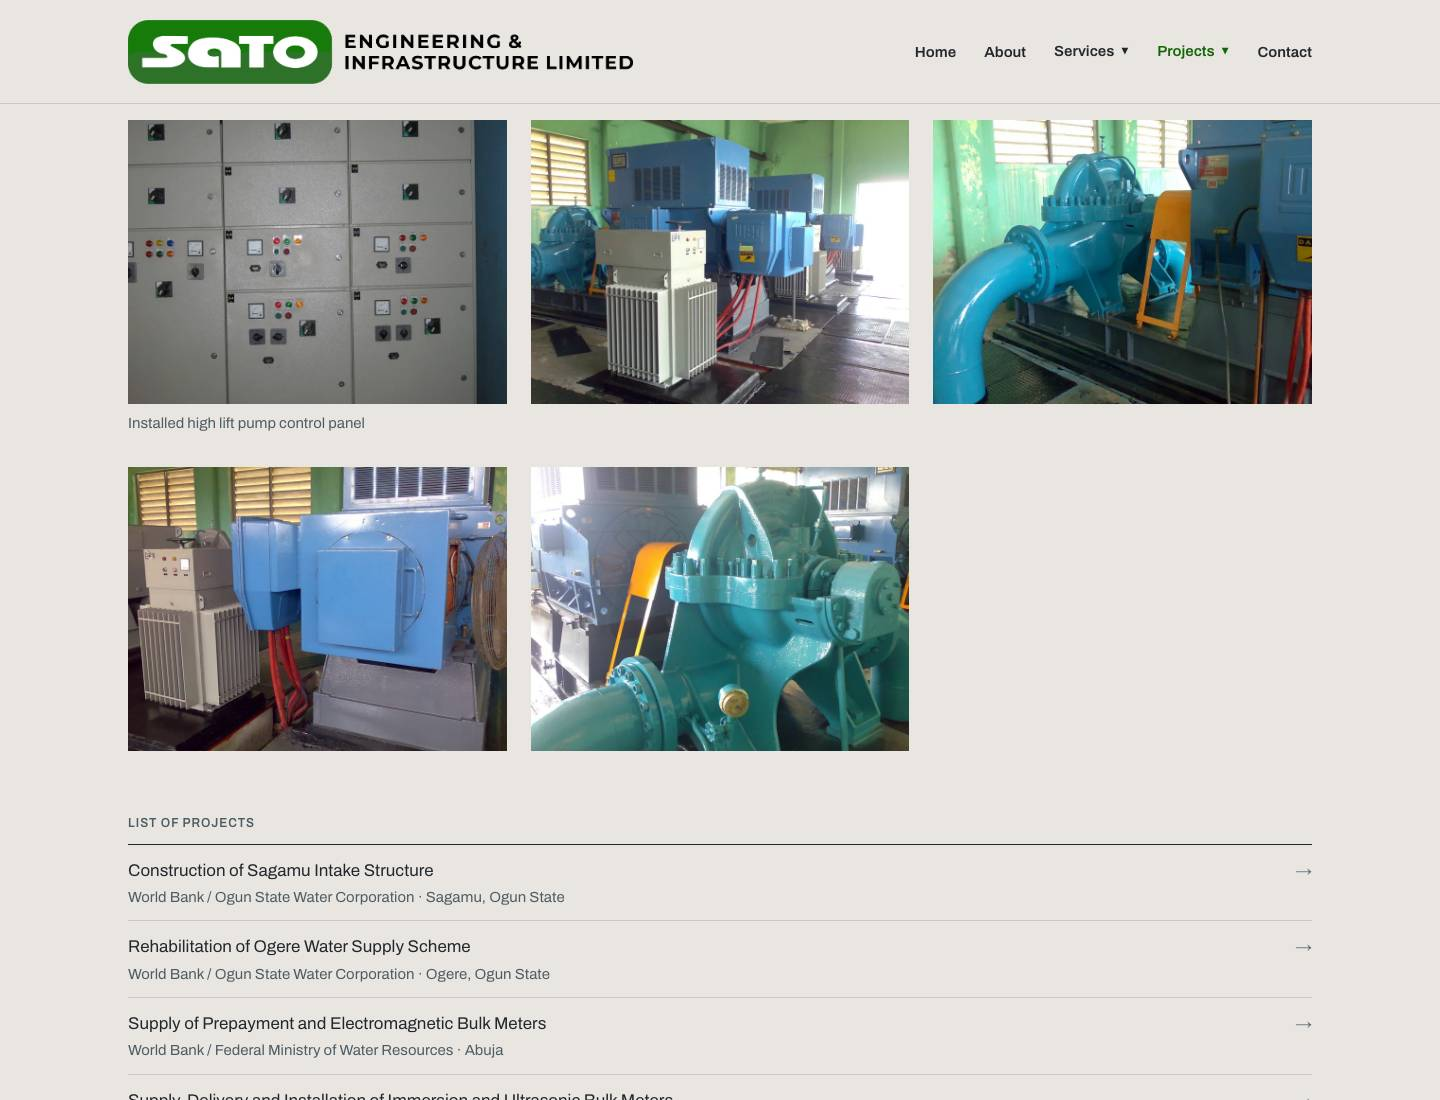
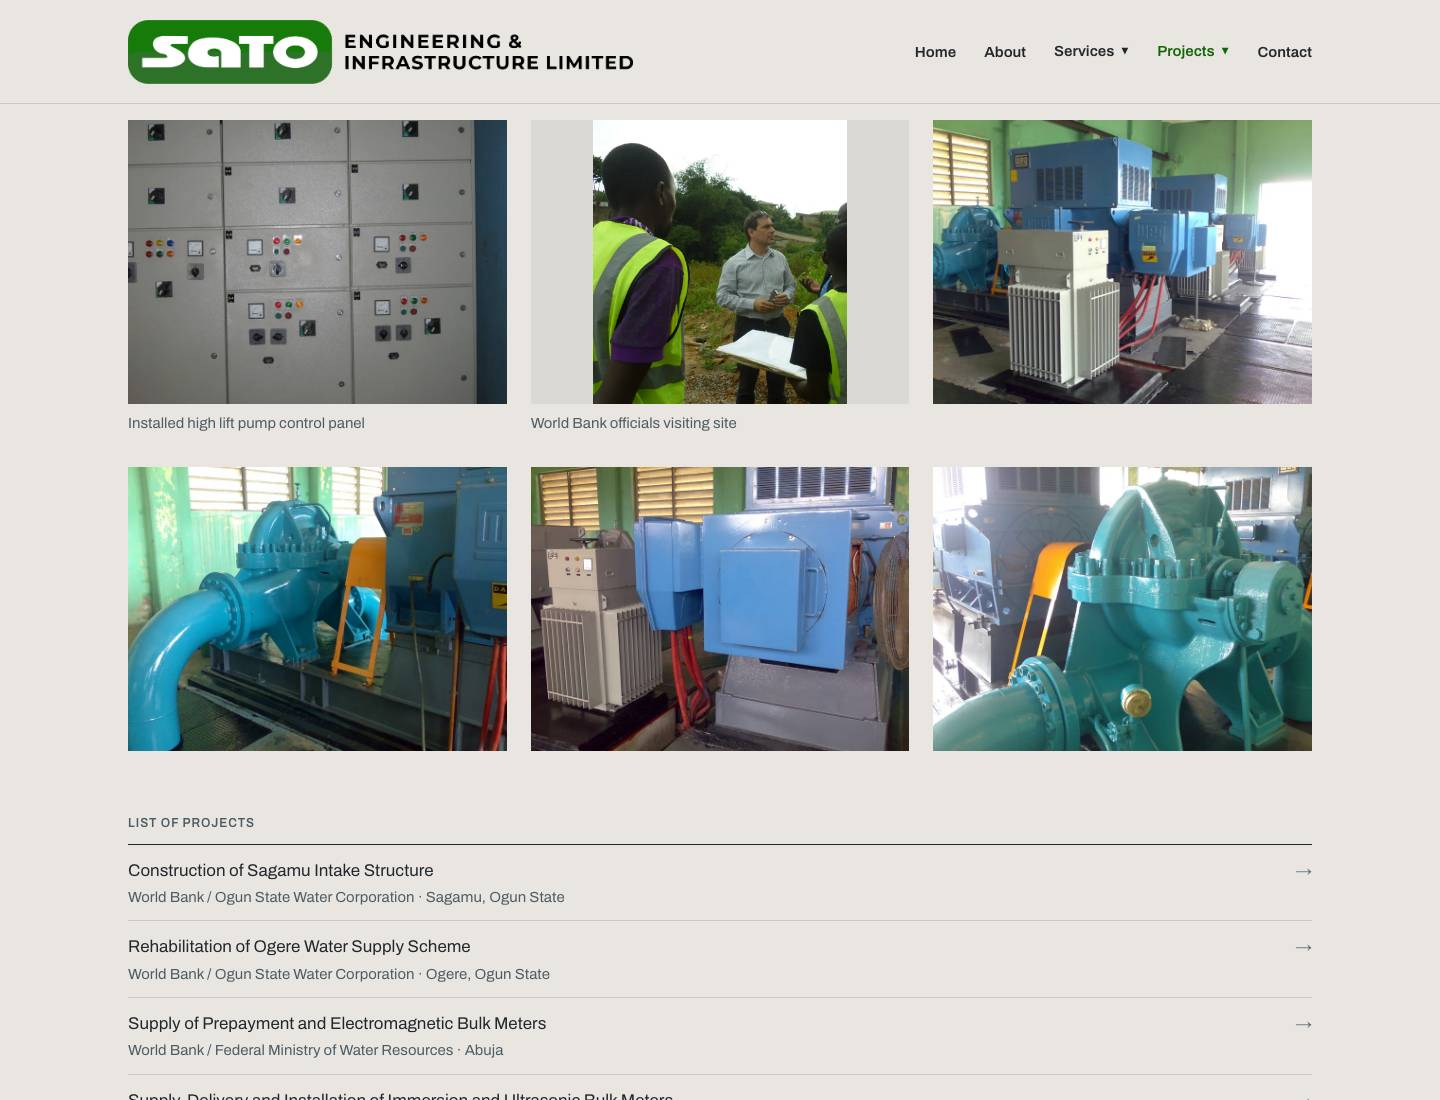
Photos: the last two World Bank visit photographs, on Sagamu intake
Every photograph in the 10 November batch is now used. The two held in
the first round go on the Sagamu intake structure project (same camera
series and visitor as the old site's inspection photograph), captioned
"World Bank officials visiting site": P1030924 in the Water gallery,
P1030932 in Electrical & Mechanical, cropped so neither vest's print
(the former name and the RC number) is in frame. Helmet rule already
waived by the client.

build:prod passes (348 images clean); audit unchanged: 0 duplicates,
0 wrong projects, 0 changed captions.

diff --git a/docs/content-audit.md b/docs/content-audit.md
@@ -16,7 +16,7 @@ A photograph is matched by provenance and by perceptual hash, so the old site's 
 | New-site extra | 19 | 11 |
 | Projects | 32 | 14 |
 | Duplicate (allowed) | 6 | 16 |
-| New-site extra (kept, High confidence) | 12 | 66 |
+| New-site extra (kept, High confidence) | 12 | 68 |
 
 **Counted as allowed:** a project's photograph also used as one category tile or one page header. **Missing photo** includes old-site photographs that stay off the site under a standing rule (no helmets, a legible former company name) or wait on the client; the Fix column says which.
 
@@ -63,6 +63,8 @@ A photograph is matched by provenance and by perceptual hash, so the old site's 
 | B-25072008013 | — | service-gallery:electrical-mechanical<br>category-photos:electrical-mechanical | **Duplicate (allowed)** — A category photograph also in its own service's gallery (allowed, 10 November) | One place only |
 | B-25072008011 | — | service-gallery:electrical-mechanical<br>category-photos:electrical-mechanical | **Duplicate (allowed)** — A category photograph also in its own service's gallery (allowed, 10 November) | One place only |
 | oil & gas artwork: oil-gas/oil-gas-hero-platforms.jpg | — | tile:oil-gas<br>page-band:services.groupOilGas | **Duplicate (allowed)** — Oil & Gas artwork, unchanged by rule (allowed) | One place only |
+| B-P1030924-1<br>“World Bank officials visiting site” | Client's unlabelled batch of 10 November 2026; held in the first round, published on the instruction that every photograph be used | project:sagamu-intake-structure | **New-site extra (kept, High confidence)** — Not on the old site | Kept (High confidence, on a project the old site has) — for the client to confirm |
+| B-P1030932 (1)<br>“World Bank officials visiting site” | Client's unlabelled batch of 10 November 2026; held in the first round, published on the instruction that every photograph be used | project:sagamu-intake-structure | **New-site extra (kept, High confidence)** — Not on the old site | Kept (High confidence, on a project the old site has) — for the client to confirm |
 | W089<br>“Construction of ground tank” | Client's Word document of 8 November 2026 (page 9); site confirmed by the client 9 November | project:ogere-water-supply-scheme-rehabilitation | **New-site extra (kept, High confidence)** — Not on the old site | Kept (High confidence, on a project the old site has) — for the client to confirm |
 | B-S6300021<br>“Water treatment tanks” | Client's unlabelled batch of 10 November 2026 (batch-2026-11-10), identified by eye from his verbal breakdown | project:ogere-water-supply-scheme-rehabilitation<br>tile:water-resources-development-management | **New-site extra (kept, High confidence)** — Not on the old site | Kept (High confidence, on a project the old site has) — for the client to confirm |
 | W071<br>“Installation of alum dosing pumps” | Client's Word document of 8 November 2026; published on the client's instruction of 9 November (helmet rule waived for this document) | project:ogere-water-supply-scheme-rehabilitation | **New-site extra (kept, High confidence)** — Not on the old site | Kept (High confidence, on a project the old site has) — for the client to confirm |

diff --git a/docs/decisions/client-photo-batch-2026-11-10.md b/docs/decisions/client-photo-batch-2026-11-10.md
@@ -42,7 +42,7 @@ over. Contact sheet: `docs/screenshots/photo-batch-2026-11-10/grouping.jpg`.
 |---|---|---|
 | Pumps and electrical (4) | `25072008005.jpg`, `25072008007.jpg`, `25072008013.jpg`, `25072008011.jpg` | All four published (no generator among them: two split-case pumps, the motors and their transformers) |
 | COLPLANT (1) | `IMG_20200820_125640_11.jpg` | Published; replaces the old site's lead photograph |
-| World Bank officials (4) | `P1030364.JPG`, `P1030369.JPG`, `P1030924-1.JPG`, `P1030932 (1).JPG` | Two published, two left out (below) |
+| World Bank officials (4) | `P1030364.JPG`, `P1030369.JPG`, `P1030924-1.JPG`, `P1030932 (1).JPG` | All four published; two were held in the first round and added the same day (below) |
 | Water tank (1) | `S6300021.JPG` | Published; the Water spotlight |
 | Surveyor (1) | `3599d113-f3e7-4177-862e-126a034fbe43.JPG` | Published |
 
@@ -89,12 +89,24 @@ None shows a burned-in date or a number plate.
     Sagamu inspection photograph (`P1030872`), with different people, so
     nothing ties them to a site. Not on the Sagamu intake project for that
     reason.
-  - **Left out:** `P1030924-1` (no one in the foreground has a helmet, with
-    an excavator working behind them: an active construction area, which the
-    brief excludes) and `P1030932 (1)` (two vests read "SATO RC 317208
-    ENGINEERING NIGERIA LIMITED" legibly, which puts the former name, the RC
-    number and the country in the foreground; nobody wears a helmet beside an
-    open excavation). Both are from the Sagamu visit's series.
+  - **First round, left out:** `P1030924-1` (no helmets in the foreground,
+    an excavator working behind) and `P1030932 (1)` (two vests legibly read
+    "SATO RC 317208 ENGINEERING NIGERIA LIMITED").
+  - **Same day, published** on the instruction that the client wants every
+    photograph in the batch used. The helmet rule was already waived (9
+    November). Both are from the Sagamu visit's camera series (the old site's
+    inspection photograph is `P1030872`, 50–60 frames earlier, with the same
+    visitor), so both are on the **Sagamu intake structure** project:
+    `world-bank-visit-excavation` (`P1030924`) in the Water gallery, and
+    `world-bank-visit-briefing` (`P1030932`) with `galleryCategory`
+    Electrical & Mechanical, as the brief suggested. `P1030932` is cropped to
+    the visitor (left 5%, right 28% off), which takes the print off both
+    vests; nothing legible remains. On `P1030924` the only text is the
+    excavator's "CAT", "SATO" and "320BL"; no plate shows.
+  - So all four World Bank photographs are up, each captioned exactly as
+    asked. That puts the caption on the Water page twice (Sagamu, and
+    `P1030364` among the category photographs, far apart). The brief's exact
+    wording wins over the no-repeat rule there.
 - **Water tank → Water spotlight.** Placed on the Ogere project, after the
   ground tank it replaces as spotlight, because the spotlight must be a
   photograph of a project in its category and the client says it is the same

diff --git a/docs/open-items-extra.md b/docs/open-items-extra.md
@@ -27,10 +27,14 @@ Eleven unlabelled photographs, placed from his verbal breakdown. See
 - **The surveyor.** The container terminal behind him suggests the APM
   Terminals reefer pavement project. If so, it moves onto that project, which
   has no photograph yet.
-- **The World Bank visit photographs.** Two are up, in the Water and Civil
-  galleries, on no project. Which site were they taken at? Two more were
-  left out: one has no helmets beside a working excavator, the other shows
-  the former name and RC number legibly on two vests.
+- **The World Bank visit photographs.** All four are up. Two are on the
+  Sagamu intake project (same visit as the old site's inspection photograph;
+  one cropped to take the former name and RC number off two vests). The
+  other two are in the Water and Civil galleries on no project: which site
+  were they taken at?
+- **The resent email's `2f05e69a…`** is still the one email photograph not on
+  the site: it is the Block B front from almost the same spot as the Building
+  spotlight. Add it as well, or leave it?
 - **The E&M equipment photographs** are on both the E&M projects page and the
   E&M service page, as asked. It is the one exception to "one photograph, one
   place".

diff --git a/docs/open-items.md b/docs/open-items.md
@@ -29,10 +29,14 @@ Eleven unlabelled photographs, placed from his verbal breakdown. See
 - **The surveyor.** The container terminal behind him suggests the APM
   Terminals reefer pavement project. If so, it moves onto that project, which
   has no photograph yet.
-- **The World Bank visit photographs.** Two are up, in the Water and Civil
-  galleries, on no project. Which site were they taken at? Two more were
-  left out: one has no helmets beside a working excavator, the other shows
-  the former name and RC number legibly on two vests.
+- **The World Bank visit photographs.** All four are up. Two are on the
+  Sagamu intake project (same visit as the old site's inspection photograph;
+  one cropped to take the former name and RC number off two vests). The
+  other two are in the Water and Civil galleries on no project: which site
+  were they taken at?
+- **The resent email's `2f05e69a…`** is still the one email photograph not on
+  the site: it is the Block B front from almost the same spot as the Building
+  spotlight. Add it as well, or leave it?
 - **The E&M equipment photographs** are on both the E&M projects page and the
   E&M service page, as asked. It is the one exception to "one photograph, one
   place".

diff --git a/CLAUDE.md b/CLAUDE.md
@@ -555,8 +555,9 @@ disagree with this file:
 12. `client-photo-batch-2026-11-10.md` — eleven unlabelled photographs,
     sorted by eye from the client's verbal breakdown. Four E&M equipment
     photographs (category and service gallery, no captions); a better COLPLANT
-    front replacing the old site's lead, keeping its caption; two of four
-    World Bank visit photographs (Water and Civil galleries, no project); the
+    front replacing the old site's lead, keeping its caption; all four World
+    Bank visit photographs (two on Sagamu intake, one cropped clear of the
+    former name; two in the Water and Civil galleries, no project); the
     treatment-tanks photograph as the **Water spotlight** (on Ogere, captioned
     "Water treatment tanks", not his "Overhead water tank", which it isn't);
     the surveyor in Civil. **About's aside is now the borehole drilling

diff --git a/docs/caption-changes.md b/docs/caption-changes.md
@@ -423,6 +423,8 @@ Kept new photographs (High confidence) took their caption from the client's own 
 | B-P1030364 | World Bank officials visiting site |  |
 | B-P1030369 | World Bank officials visiting site |  |
 | B-3599d113-f3e7-41 | Survey and levelling works |  |
+| B-P1030924-1 | World Bank officials visiting site |  |
+| B-P1030932 (1) | World Bank officials visiting site |  |
 
 ## Project titles
 
